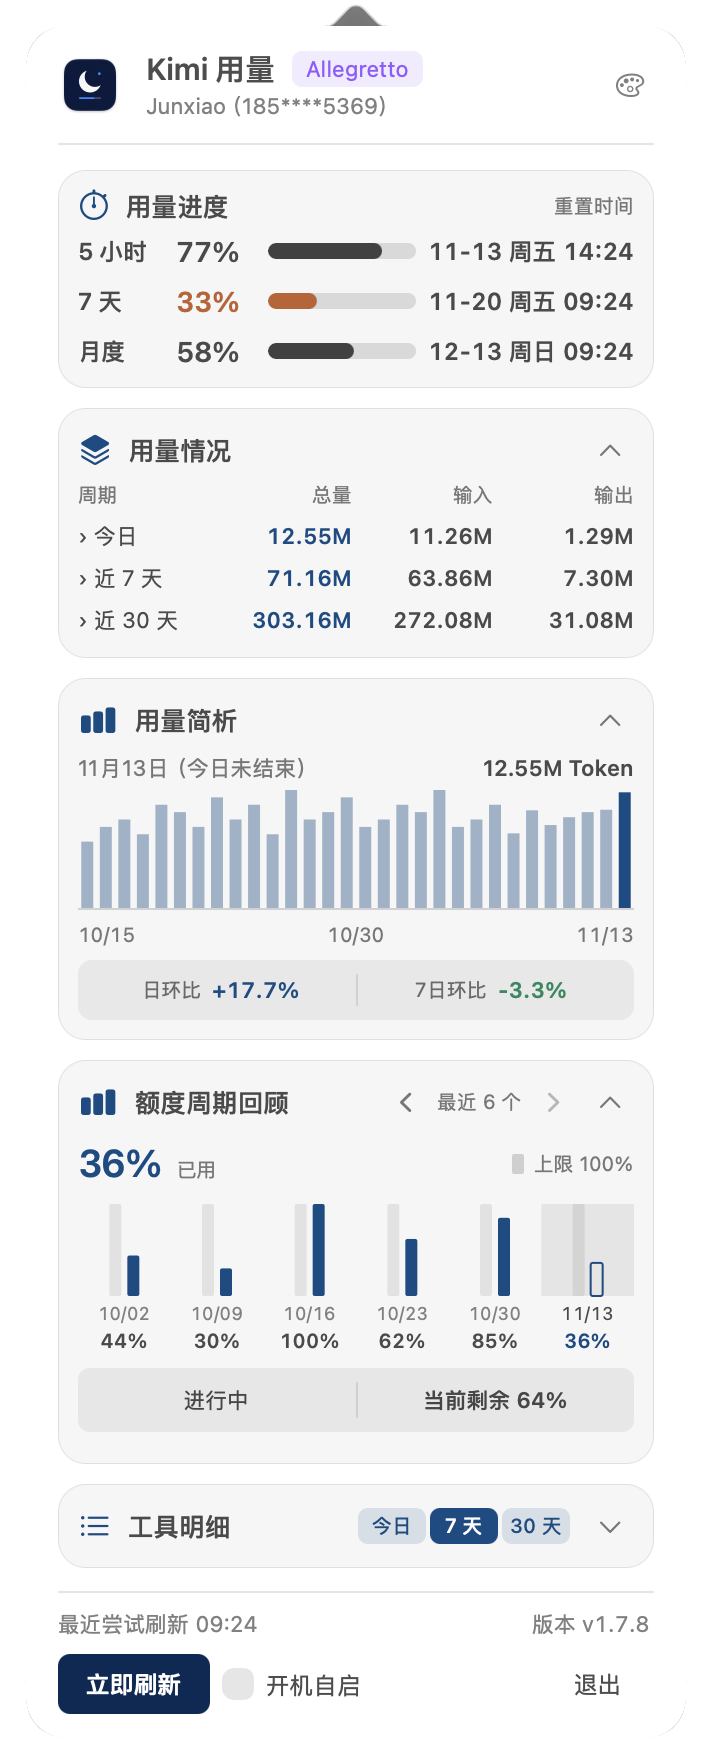
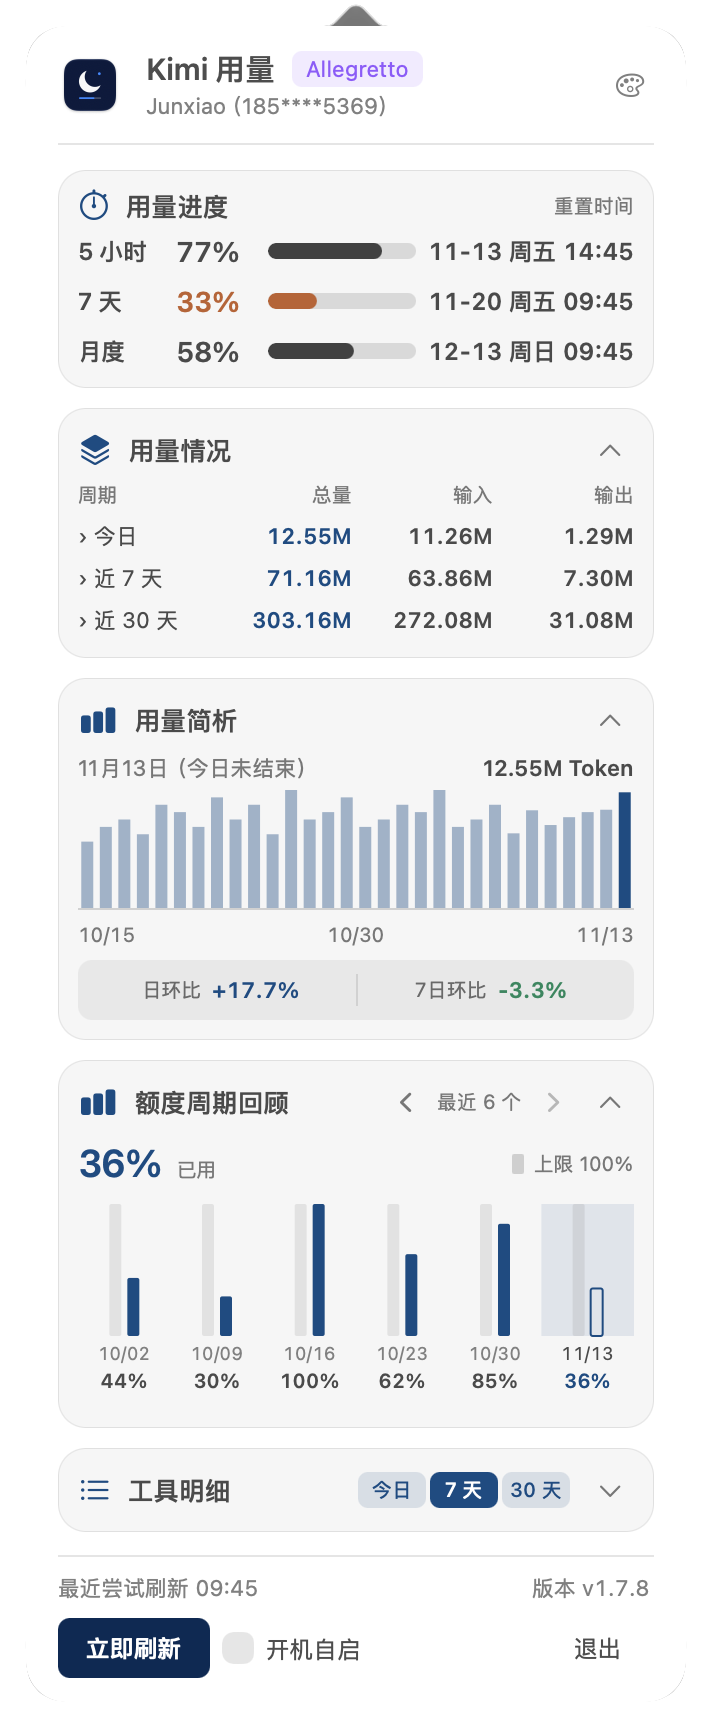
docs: 记录周期柱图二次视觉反馈

diff --git a/docs/DEVELOPMENT.md b/docs/DEVELOPMENT.md
@@ -32,7 +32,7 @@
 - **配额**：通过 Kimi 远程接口查询 5 小时、7 天和月度额度
 - **头部账号行**：`GET https://www.kimi.com/api/user`（Kimi Web 认证）取昵称与手机号；手机号由服务端打码返回，客户端原样展示。Kimi 账号可能为手机号/微信注册，无 email 字段，账号行显示「昵称（打码手机号）」，两者皆缺时隐藏。随月度接口同在慢轮刷新，401 走相同的 refresh→重试链，失败保留旧值
 - **面板卡片布局**：固定头部与底部操作区，中间滚动区按额度、用量情况、用量简析、额度周期回顾、工具明细分为五张卡片。面板宽 330pt（窄预览 300pt），卡片圆角 14pt、内容边距 10pt，底色和描边使用随外观变化的文字色，不加阴影。工具占比条固定 72pt，为完整工具名称保留空间，并按 `ToolID` 固定分色，不随周期或用量排序变化；展开、收起和异步刷新仍实时调整 Popover 高度，超过屏幕可用高度 85% 后内部滚动。
-- **额度周期回顾**：仅将本次有效 7 天额度响应写入本地历史，不新增网络请求，不使用 merged 旧值或本地 Token 反推。灰柱为 100% 上限、Kimi 动态蓝柱为已用比例；每屏 6 轮，首批 12 轮并可逐批扩展。视觉结构对齐 CodexUsage 用量简析：19pt 主数值、76pt 图布/46pt 柱区、6pt 微圆角双柱、图内详情浮层和 32pt 状态条；每轮日期正下方显示该轮已用百分比，当前轮已用柱为空心，短历史按固定六列槽宽靠右且不伪造记录，单页隐藏翻页控件。状态机区分正常到期、窗口变化原因未知和观测缺口，候选需独立请求确认，缺口不补零。完整口径见 `docs/project/17-quota-cycle-history.md`。
+- **额度周期回顾**：仅将本次有效 7 天额度响应写入本地历史，不新增网络请求，不使用 merged 旧值或本地 Token 反推。灰柱为 100% 上限、Kimi 动态蓝柱为已用比例；每屏 6 轮，首批 12 轮并可逐批扩展。视觉结构对齐 CodexUsage 用量简析：19pt 主数值、96pt 图布/66pt 柱区、6pt 微圆角双柱和图内详情浮层，无底部状态/余量栏；选中列使用产品蓝浅底。每轮日期正下方显示该轮已用百分比，当前轮已用柱为空心，短历史按固定六列槽宽靠右且不伪造记录，单页隐藏翻页控件。状态机区分正常到期、窗口变化原因未知和观测缺口，候选需独立请求确认，缺口不补零。完整口径见 `docs/project/17-quota-cycle-history.md`。
 - **周期历史存储**：`~/Library/Application Support/KimiUsage/quota-history/` 按 Kimi Code API Key 的加盐 SHA256 作用域分区，原始 key/salt 不进入历史 JSON；目录 0700、文件 0600，复用 `AtomicJSONFile`。key 轮换后重新记录，等值样本只在五分钟心跳落盘；损坏/未来版本不得自动覆盖。协调器串行读写，快照经 generation 防止旧账号回调覆盖 UI。
 - **面板背景样式**：头部最右缘 24×24 `paintpalette` 按钮（icon + 标题区 + 弹性间隔 + 按钮）弹出原生 `NSMenu`（顺序固定 纯色 / 液态玻璃 / 经典毛玻璃，当前项打勾）。`PanelBackgroundStyle`（solid/liquidGlass/classicMaterial）以单个 UserDefaults key `panelBackgroundStyle` 持久化，缺省与非法值回退 solid。打开、切换、系统无障碍通知（经 `NSWorkspace.shared.notificationCenter` 注册，default center 收不到）统一走 `applyBackgroundStyle()`，只切背景层 hidden/opacity、不重建内容：solid 档 `PanelSolidBackgroundView` 全不透明（历史 0.9 混合已取消）、隐藏 effect；classicMaterial 档仅显示 `NSVisualEffectView(.popover)`；liquidGlass 档（macOS 26+）两层自绘背景全部隐藏，露出新 SDK 原生 NSPopover chrome，不引入 NSGlassEffectView 或 NSPanel。卡片底色与描边分别使用 `labelColor@0.035` 和 `labelColor@0.09`，深浅外观一致解析，不按背景样式分叉。旧系统该菜单项禁用，标题直接标注「液态玻璃（需 macOS 26+）」，存储的 liquidGlass 渲染降级 classicMaterial。「降低透明度」临时强制 solid，不改写偏好；NSMenu 弹出期间挂起面板 local/global monitor，结束后恢复，主 Popover 保持 transient。
 - **Token**：扫描本地会话 wire.jsonl / 客户端 JSONL 日志，并只读查询 ZCode、Hermes 的 sqlite 用量表聚合。ZCode 以 `model_usage` 逐请求表为唯一来源；输入包含缓存读取/创建，不重复加 cache 字段。近 7 天和近 30 天均包含今天。混接客户端缺失模型名时不归属 Kimi；可信 Kimi Code 旧格式可兼容并归入「未知模型」。ZCode 暂时不可读时保留最近成功快照并提示，其他来源继续更新。Work 优先按请求 ID，或同一 agent 的 `llm.request` 与 `turnStep` 关联模型和双写用量；同一请求内用量一致且两侧各一条的 `usage.record` / `step.end` 只计一次，不受工具执行耗时限制。没有请求上下文的旧日志仍只匹配时间和位置邻近的事件。保留独有历史调用和压缩用量，跳过子任务完成汇总；只有缺少可靠模型依据的用量才进入「未知模型」。
@@ -68,7 +68,7 @@ bash -n build.sh scripts/update.sh scripts/release.sh
 
 视觉预览可附加 `--visual-preview-models`（展开模型明细）、`--visual-preview-tools`（展开工具明细）、`--visual-preview-dark`、`--visual-preview-narrow`、`--visual-preview-empty`、`--visual-preview-states` 或 `--visual-preview-long`。`--once` 会读取真实登录态并联网，不属于离线测试；等待超时（45s）以非零退出码报告。
 
-额度周期回顾预览使用固定内存快照，不创建真实历史仓库：`--visual-preview-quota-history` 为 13 轮交互夹具，另有 `--visual-preview-quota-one`、`--visual-preview-quota-six`、`--visual-preview-quota-long`、`--visual-preview-quota-short`、`--visual-preview-quota-empty`、`--visual-preview-quota-pending`、`--visual-preview-quota-save-failed`、`--visual-preview-quota-load-failed`、`--visual-preview-quota-cross-year`。交互守门覆盖图内浮层的完整文案、边界、hit-transparent、移出隐藏和固定选择恢复；几何守门覆盖 6pt 柱宽、46pt 上限、3pt 组内间距、76pt 图布、逐轮日期/百分比标签及 1/4/6 轮右对齐。交互与几何回归：
+额度周期回顾预览使用固定内存快照，不创建真实历史仓库：`--visual-preview-quota-history` 为 13 轮交互夹具，另有 `--visual-preview-quota-one`、`--visual-preview-quota-six`、`--visual-preview-quota-long`、`--visual-preview-quota-short`、`--visual-preview-quota-empty`、`--visual-preview-quota-pending`、`--visual-preview-quota-save-failed`、`--visual-preview-quota-load-failed`、`--visual-preview-quota-cross-year`。交互守门覆盖图内浮层的完整文案、边界、hit-transparent、移出隐藏和固定选择恢复；几何守门覆盖 6pt 柱宽、66pt 上限、3pt 组内间距、96pt 图布、逐轮日期/百分比标签、底部栏移除及 1/4/6 轮右对齐。交互与几何回归：
 
 ```bash
 ./KimiUsage.app/Contents/MacOS/KimiUsage --visual-preview --visual-preview-quota-history --visual-preview-test

diff --git a/docs/verification/2026-11-13-quota-cycle-history-visual-polish.md b/docs/verification/2026-11-13-quota-cycle-history-visual-polish.md
@@ -4,11 +4,11 @@
 
 分支：`plan/quota-cycle-history-20261112`
 
-计划基线：`1fd046d`；视觉实现提交：`1ed2f2e`、`3a1c7af`、`10b12f8`、`42b5caf`；本机反馈修订：`316d5f3`。
+计划基线：`1fd046d`；视觉实现提交：`1ed2f2e`、`3a1c7af`、`10b12f8`、`42b5caf`；本机反馈修订：`316d5f3`、`31aaa6e`。
 
 ## 结论
 
-「额度周期回顾」已在不改变历史模型、状态机、存储和浏览逻辑的前提下，重构为 CodexUsage 用量简析同构的标题/主数值/柱图/状态条布局。立柱采用 6pt 宽、46pt 柱区、3pt 组内间隙和 1pt 圆角；当前轮已用柱为空心，短历史按固定六列槽宽右对齐，每轮日期下显示已用百分比，完整详情迁入不拦截命中的图内浮层。
+「额度周期回顾」已在不改变历史模型、状态机、存储和浏览逻辑的前提下，重构为 CodexUsage 用量简析同构的标题/主数值/柱图布局。立柱采用 6pt 宽、66pt 柱区、3pt 组内间隙和 1pt 圆角；当前轮已用柱为空心，短历史按固定六列槽宽右对齐，每轮日期下显示已用百分比，完整详情迁入不拦截命中的图内浮层。底部状态/余量栏已移除，选中列使用产品蓝的浅蓝底色。
 
 构建、离线自检、78 项 Python 回归、330/300pt 几何、AppKit 合成事件、九张背景矩阵和 Cua 真实 Popover 截图检查通过。Cua 因 Popover AX/CGWindow 关联未解析而拒绝后台输入；真实物理悬停和键盘输入未验收，不以合成事件冒充该项通过。
 
@@ -30,9 +30,9 @@ codesign --verify --deep --strict KimiUsage.app
 结果：
 
 - arm64 / macOS 13 构建通过，SDK 27.2，无编译 warning；ad-hoc 签名验证通过。
-- `--self-test` PASS。新增覆盖展示文案、当前/已结束柱样式、6pt 柱宽、46pt 上限、3pt 间隙、28/76/32pt 行高、逐轮日期与百分比标签，以及 1/4 轮固定槽宽和右对齐。
+- `--self-test` PASS。新增覆盖展示文案、当前/已结束柱样式、6pt 柱宽、66pt 上限、3pt 间隙、28/96pt 主数值与图布高度、逐轮日期与百分比标签、底部栏移除，以及 1/4 轮固定槽宽和右对齐。
 - 330/300pt 几何均 PASS；六组双柱不重叠、不越界，已用不超过上限，旧双行详情不再作为可见文本渲染。
-- 额度历史交互 PASS：图内浮层内容、完整边界、hit-transparent、移出隐藏、点击固定、顶部/底部同步、方向键跨页、翻页、12→24 扩展、刷新保持、折叠重开、作用域重置和 VoiceOver。
+- 额度历史交互 PASS：图内浮层内容、完整边界、hit-transparent、移出隐藏、点击固定、主数值同步、方向键跨页、翻页、12→24 扩展、刷新保持、折叠重开、作用域重置和 VoiceOver；底部状态/余量栏不再存在。
 - 通用面板交互与键盘事件均 PASS。
 - Python 共 78 tests，全部 OK；三个 Shell 脚本语法检查通过。
 - 数据/持久化文件、`build.sh`、脚本协议和 `tests/script_test.py` 无差异。
@@ -47,9 +47,10 @@ codesign --verify --deep --strict KimiUsage.app
 
 - `full-light.png` / `full-dark.png`：六轮默认页，检查主数值、图例、柱形、日期和状态条。
 - `one-light.png` / `short-light.png`：第一轮视觉验收的一轮居中、四轮固定槽宽；后续 `feedback-one-light.png` / `feedback-full-light.png` 按用户反馈改为右对齐并逐轮显示百分比。
-- `pending-narrow.png`：300pt 下「窗口变化待确认」与剩余完整可读。
+- `pending-narrow.png`：第一轮 300pt 下「窗口变化待确认」与剩余完整可读；最终版将二者保留在浮层与无障碍详情。
+- `feedback2-full-light.png` / `feedback2-full-dark.png` / `feedback2-one-light.png`：最终无底部栏、66pt 柱体和浅蓝选中底色的固定数据截图。
 - `cross-year.png`：12 月与 01/01 标签保持正确。
-- `backgrounds/`：纯色、经典毛玻璃、液态玻璃 × 浅色/深色/降低透明度共 9 张，全部生成；已检查柱体、文字和选中底色可辨。
+- `backgrounds/`：第一轮纯色、经典毛玻璃、液态玻璃 × 浅色/深色/降低透明度共 9 张。最终 `feedback2-backgrounds/` 首轮液态玻璃 dark/reduce 子进程退出 1，按既有背板守门单独重跑后两张均生成有效截图；已检查柱体、文字和选中底色可辨。
 - `core-contact.png` / `background-contact.png`：仅供本轮集中审阅的裁剪联系表，不是生产资产。
 - `cua-preview.png`：本次构建真实 NSPopover 的 Cua 窗口截图，确认运行实例、卡片结构和实际合成像素。
 

diff --git a/docs/project/17-quota-cycle-history.md b/docs/project/17-quota-cycle-history.md
@@ -16,12 +16,12 @@
 
 ## 视觉结构
 
-- 卡片采用与 CodexUsage 用量简析同构的层级：标题行、主数值、柱图、状态条。翻页按钮与页码位于标题行，折叠箭头保持最右。
+- 卡片采用与 CodexUsage 用量简析同构的层级：标题行、主数值、柱图。翻页按钮与页码位于标题行，折叠箭头保持最右；不设置底部状态/余量栏。
 - 主数值为当前展示轮次的已用百分比，19pt semibold 等宽数字配 10pt「已用」；右侧仅保留灰色「上限 100%」图例，不设置额外纵轴或「当前」图例。
-- 图布固定 76pt，柱区 46pt；每根灰柱/已用柱宽 6pt，同组间隙 3pt，圆角 1pt。当前轮的已用柱为描边空心，已结束轮为实心；零用量保留低基线。
-- 选中只增加 `labelColor@0.07` 的列底并强化日期字色，柱体透明度不随选择改变。日期以 9pt 等宽数字绘制，每轮已用百分比以 10pt semibold 等宽数字紧跟在对应日期正下方。
+- 图布固定 96pt，柱区 66pt；每根灰柱/已用柱宽 6pt，同组间隙 3pt，圆角 1pt。当前轮的已用柱为描边空心，已结束轮为实心；零用量保留低基线。
+- 选中只增加 `PanelAccent.codex.color@0.10` 的浅蓝列底并强化日期字色，柱体透明度不随选择改变。日期以 9pt 等宽数字绘制，每轮已用百分比以 10pt semibold 等宽数字紧跟在对应日期正下方。
 - 不足 6 轮时仍按六列计算固定槽宽，实际分组整体靠右，当前轮始终位于最右；不绘制假柱、占位日期或额外空组。只有一页时隐藏无效翻页按钮和页码。
-- 完整双行详情在图内浮层展示，浮层不拦截命中、不增加卡片高度。图下 32pt 状态条仅显示简洁状态与既有剩余语义；完整文案保留在 tooltip 与 VoiceOver。
+- 完整双行详情在图内浮层展示，浮层不拦截命中、不增加卡片高度。结束状态、当前剩余或到期未用只保留在浮层、tooltip 与 VoiceOver，不占用图下常驻区域。
 
 ## 观测与结束语义
 
@@ -65,7 +65,7 @@
 | `Sources/QuotaCycleHistory.swift` | 观测模型、状态机、快照、浏览器与固定预览数据 |
 | `Sources/QuotaCycleStore.swift` | 加盐作用域、权限、版本校验、原子保存与保存节奏 |
 | `Sources/QuotaCycleCoordinator.swift` | 串行读写、作用域代际、失败回退与快照交付 |
-| `Sources/QuotaCycleHistoryView.swift` | AppKit 双柱、图内浮层、状态条、分页、选择、键盘和 VoiceOver |
+| `Sources/QuotaCycleHistoryView.swift` | AppKit 双柱、图内浮层、分页、选择、键盘和 VoiceOver |
 | `KimiUsage.swift` / `AppDelegate` | 现有刷新样本 gate、生产协调器和面板状态接入 |
 | `main.swift` | 唯一 Swift 顶层可执行入口 |
 

diff --git a/docs/plans/2026-11-13-quota-cycle-history-visual-polish.md b/docs/plans/2026-11-13-quota-cycle-history-visual-polish.md
@@ -10,7 +10,7 @@
 
 ---
 
-> **2026-11-13 本机验收修订：** 用户明确要求当前轮始终靠右，并在每轮日期正下方直接显示该轮已用百分比。最终图布由 61pt 调整为 76pt，短历史由居中改为固定六列槽宽右对齐；只有一页时隐藏翻页按钮和页码。下文原计划的 61pt/居中描述由本修订覆盖，其他设计不变。
+> **2026-11-13 本机验收修订：** 用户明确要求当前轮始终靠右，并在每轮日期正下方直接显示该轮已用百分比。图布由 61pt 调整为 76pt，短历史由居中改为固定六列槽宽右对齐；只有一页时隐藏翻页按钮和页码。随后用户要求移除底部状态/余量栏、拉高柱体并改用浅蓝选中底色，最终图布/柱区为 96/66pt，状态与剩余仅保留在浮层和 VoiceOver。下文原计划中 61pt、居中、灰色选中底和 32pt 状态条的描述由这两项修订覆盖，其他设计不变。
 
 ## 0. 执行边界与证据
 

diff --git a/CHANGELOG.md b/CHANGELOG.md
@@ -14,6 +14,7 @@
 
 - 「额度周期回顾」内部结构对齐 CodexUsage：翻页收进标题行，突出选中轮次的已用数值，以细宽微圆角双柱、当前轮空心柱和图内详情浮层替代粗方柱与独立详情卡。
 - 短历史按固定六列槽宽靠右，当前轮始终位于最右；每轮日期下直接显示已用百分比，单页隐藏无效翻页控件。补充单轮/四轮几何、标签位置、浮层边界与交互、深色及三种背景视觉回归。
+- 移除图下常驻状态/余量栏，将柱区拉高至 66pt；选中列改用产品蓝的浅蓝底色，状态与剩余仍在图内浮层和 VoiceOver 中保留。
 
 ### 维护
 
